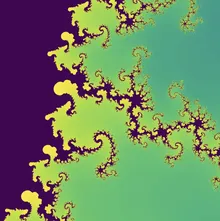
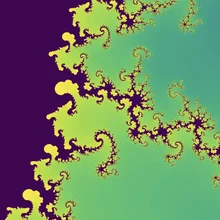
Update gallery

diff --git a/_gallery/22.md b/_gallery/22.md
@@ -1,8 +1,8 @@
 ---
 layout: gallery
-title: "Mandelbrot"
+title: "Mandelbrot Closeup"
 order: 22
 image: "/webp-gallery/mandelbrot_set.webp"
-alt: "Mandelbrot Set Fractal"
-description: "GPU-rendered visualization of the famous Mandelbrot set fractal. Demonstrates complex mathematical computation on graphics hardware and beautiful mathematical patterns found in chaos theory."
+alt: "Mandelbrot Set Closeup from ZHAW Math Lecture"
+description: "A striking closeup of the Mandelbrot set boundary, shown during a ZHAW mathematics lecture on introduction to complex numbers. The vivid purple, yellow, and green gradient reveals the infinite fractal complexity hiding at the edge of the set."
 ---
